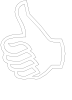
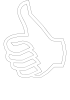
Implemented no DB recommendations, changed thumbs_up, thumbs_down images, color Flag score

diff --git a/app/templates/result.html b/app/templates/result.html
@@ -62,8 +62,8 @@
 
 <div class="splash-container">
     <div class="splash">
-        <h1 class="splash-head" id="Flag">{{score  + '/100'}}</h1>
-        <p class="splash-subhead">
+        <h1 class="splash-head" style="color: white" id="Flag">{{score  + '/100'}}</h1>
+        <p id="Flagscore" class="splash-subhead">
             FlagScore
         </p>
         <p clash="splash-subhead">
@@ -141,6 +141,8 @@
                    }
                   else{
                        $('#Flagimage').attr("src", "../static/img/common/thumbs_down.PNG")
+                       $('#Flag').attr("style","color : rgba(231, 12, 12, 0.79)");
+
 
                    }
                           var words = {{WORDS|safe}};

diff --git a/app/aws.py b/app/aws.py
@@ -42,34 +42,34 @@ def result_page():
                                             'sort': 'timestamp',
                                             'external_id': post_id
                                             })
+    api_response = parse_post(response, DICT_FIELDS, LOC_FIELDS)
 
     if 'postings' not in response or response['postings'] == []:
         query_results = client.search.search(params={'source': 'CRAIG',
                                         'retvals': ','.join(RETVALS),
                                         'sort': 'timestamp',
-                                        'zipcode': zipcode,
+                                        'location.zipcode': zipcode,
                                         'rpp': 100,
                                         })
     else:
-        api_response = parse_post(response, DICT_FIELDS, LOC_FIELDS)
         query_results = client.search.search(params={'source': 'CRAIG',
                                         'retvals': ','.join(RETVALS),
                                         'sort': 'timestamp',
                                         'category': api_response[0]['category'],
-                                        'zipcode': api_response[0]['zipcode'],
+                                        'location.zipcode': api_response[0]['zipcode'],
                                         'category_group': api_response[0]['category_group'],
-                                        'rpp': 100
+                                        'rpp': 25
                                         })
-
 
     flag_results = []
     for result in query_results['postings']:
-        flg_score = flag_score_post(result['body'])
-        flag_results.append(dict(heading=result['heading'],
-                                 body=result['body'], url=result['external_url'],
-                                 flag_score=flg_score))
+        if result['category_group'] == api_response[0]['category_group']:
+            flg_score = flag_score_post(result['body'])
+            flag_results.append(dict(heading=result['heading'],
+                                     body=result['body'], url=result['external_url'],
+                                     flag_score=flg_score))
 
-    flag_results_sorted = sorted(flag_results, key=lambda k: k['flag_score'])
+        flag_results_sorted = sorted(flag_results, key=lambda k: k['flag_score'])
     return render_template('result.html', flag_results=flag_results_sorted, post=post,
                            score=str(score), WORDS=words)
 
